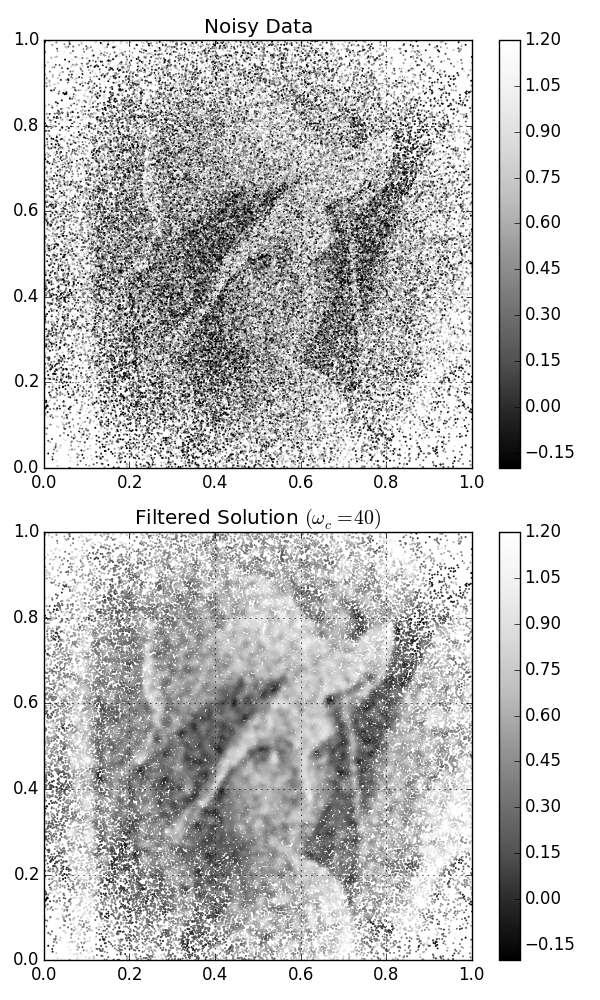
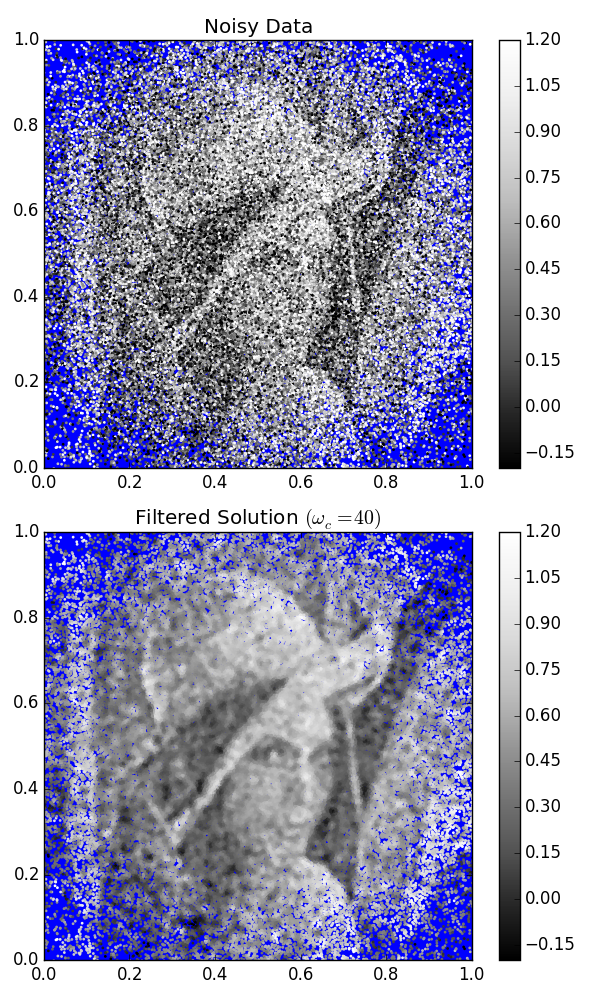
added more docs

diff --git a/demo/filter/filter_lena.py b/demo/filter/filter_lena.py
@@ -27,19 +27,19 @@ soln,sigma = filter(points_obs,u_obs,cutoff=40,size=20)
 # plot the observed and filtered results
 fig,ax = plt.subplots(2,1,figsize=(6,10))
 ax[0].set_aspect('equal')
+ax[0].set_axis_bgcolor('blue')
 ax[0].set_xlim((0,1))
 ax[0].set_ylim((0,1))
 ax[0].set_title('Noisy Data')
-ax[0].grid()
 ax[1].set_aspect('equal')
+ax[1].set_axis_bgcolor('blue')
 ax[1].set_xlim((0,1))
 ax[1].set_ylim((0,1))
 ax[1].set_title(u'Filtered Solution $(\omega_c = 40)$')
-ax[1].grid()
-p1 = ax[0].scatter(points_obs[:,0],points_obs[:,1],s=2,c=u_obs,
+p1 = ax[0].scatter(points_obs[:,0],points_obs[:,1],s=4,c=u_obs,
                    edgecolor='none',cmap='Greys_r',vmin=-0.2,vmax=1.2)
 plt.colorbar(p1,ax=ax[0])
-p2 = ax[1].scatter(points_obs[:,0],points_obs[:,1],s=2,c=soln,
+p2 = ax[1].scatter(points_obs[:,0],points_obs[:,1],s=4,c=soln,
                    edgecolor='none',cmap='Greys_r',vmin=-0.2,vmax=1.2)
 plt.colorbar(p2,ax=ax[1])
 plt.tight_layout()

diff --git a/docs/source/filter.rst b/docs/source/filter.rst
@@ -45,19 +45,19 @@ is set to 40.
   # plot the observed and filtered results
   fig,ax = plt.subplots(2,1,figsize=(6,10))
   ax[0].set_aspect('equal')
+  ax[0].set_axis_bgcolor('blue')
   ax[0].set_xlim((0,1))
   ax[0].set_ylim((0,1))
   ax[0].set_title('Noisy Data')
-  ax[0].grid()
   ax[1].set_aspect('equal')
+  ax[1].set_axis_bgcolor('blue')
   ax[1].set_xlim((0,1))
   ax[1].set_ylim((0,1))
   ax[1].set_title(u'Filtered Solution $(\omega_c = 40)$')
-  ax[1].grid()
-  p1 = ax[0].scatter(points_obs[:,0],points_obs[:,1],s=2,c=u_obs,
+  p1 = ax[0].scatter(points_obs[:,0],points_obs[:,1],s=4,c=u_obs,
                      edgecolor='none',cmap='Greys_r',vmin=-0.2,vmax=1.2)
   plt.colorbar(p1,ax=ax[0])
-  p2 = ax[1].scatter(points_obs[:,0],points_obs[:,1],s=2,c=soln,
+  p2 = ax[1].scatter(points_obs[:,0],points_obs[:,1],s=4,c=soln,
                      edgecolor='none',cmap='Greys_r',vmin=-0.2,vmax=1.2)
   plt.colorbar(p2,ax=ax[1])
   plt.tight_layout()

diff --git a/docs/source/index.rst b/docs/source/index.rst
@@ -39,6 +39,7 @@ Table of Contents
 
 Quick Demo
 ----------
+
 Smoothing Scattered Data
 ++++++++++++++++++++++++
 In this example we generate synthetic scattered data with added noise 
